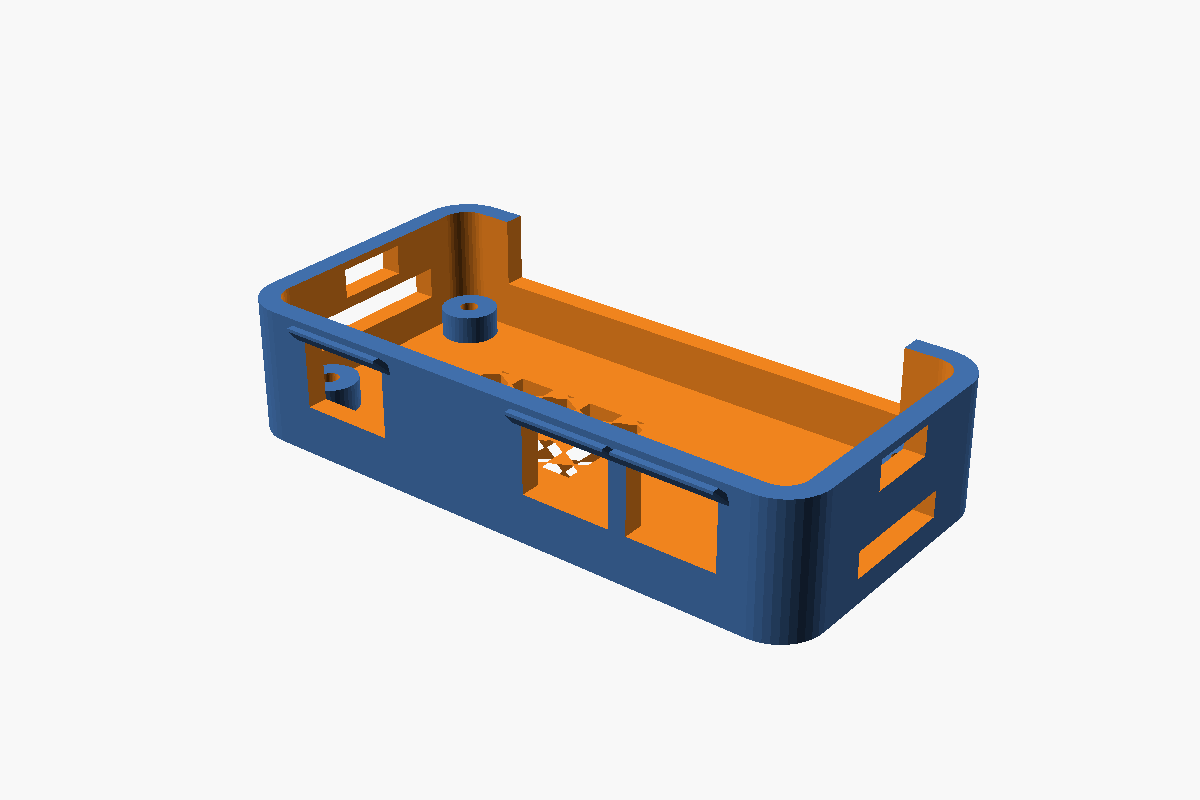
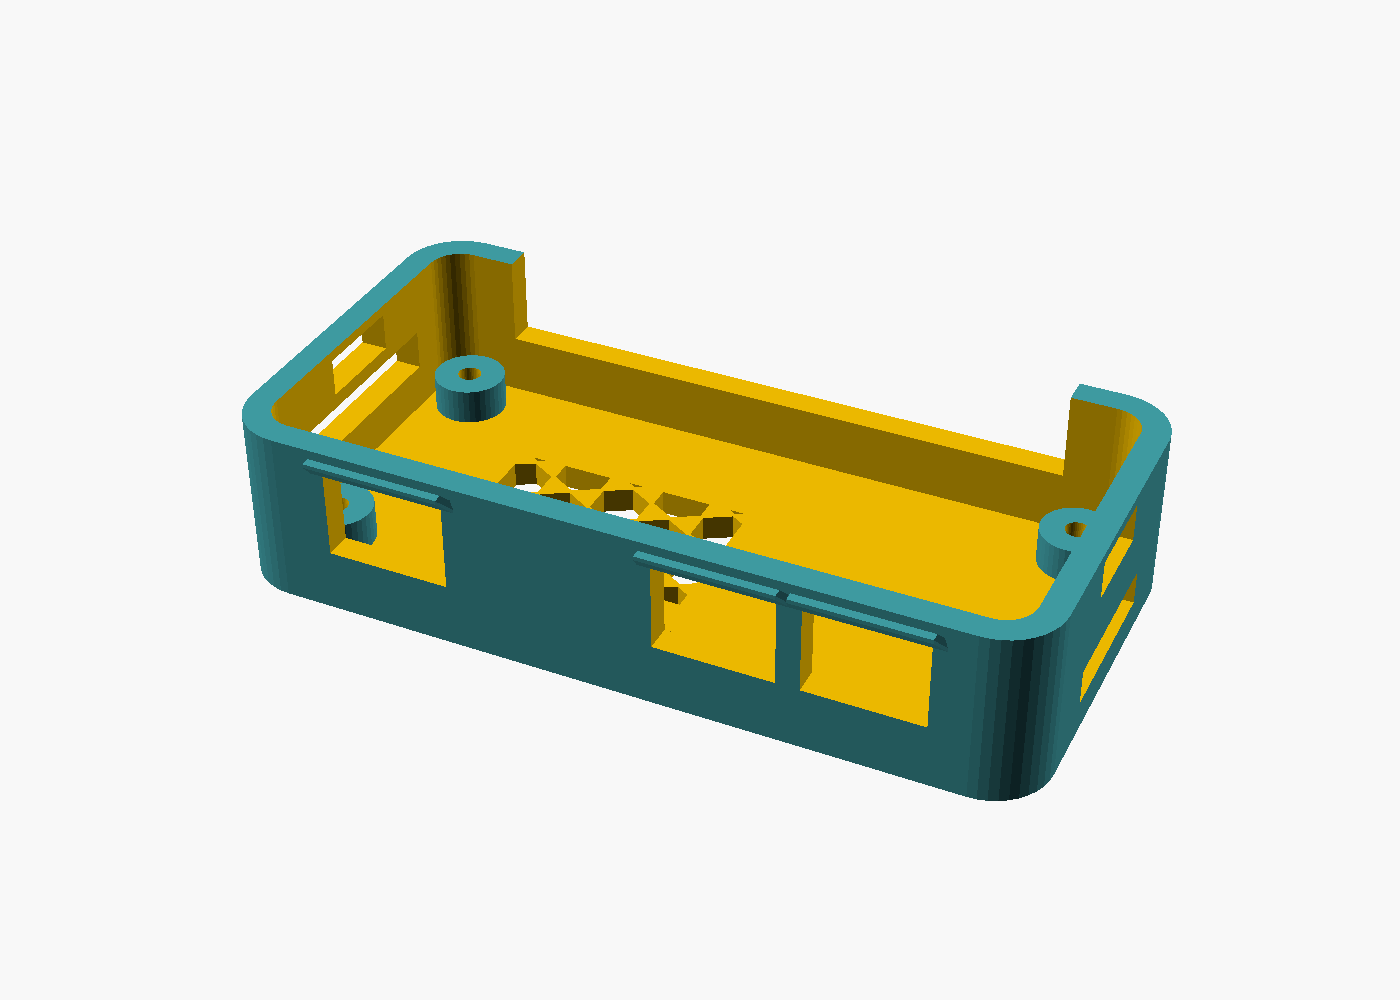
checkpoint before checking out feature/voice-tts-and-model-catalog

Changed region(s): [[0.1542, 0.2188, 0.8325, 0.8125]]

diff --git a/PRINTS/START-HERE.md b/PRINTS/START-HERE.md
@@ -13,6 +13,18 @@ Then open `PRINTS/START-HERE.md`.
 
 **Hive** is two parts: base + lid. The board sits on four bosses and is held with **M2.5 screws**. The lid snaps on at the short ends.
 
+## Filament on the shelf
+
+| | |
+|---|---|
+| Printer | Ender-3 V3 SE — **one extruder, one nozzle** |
+| On hand | **2× black PLA**, **2× white PLA** |
+| Two colors? | Not in one job. Print the **base in black** and the **lid in white** as two slices, then snap them together. |
+| One-plate STL | `zero3w_hive-print.stl` is **one color only** (all black or all white). Do not use it if you want two-tone. |
+| Pause-and-swap | Possible (M600 at a layer) but messy. Not worth it for Hive. |
+
+The old blue/orange previews were OpenSCAD’s cutaway colors, not a second filament. Renders below are the actual PLA.
+
 ## Tomorrow, in this order
 
 1. **Fit coupon first** (~15 min, little filament)  
@@ -34,7 +46,7 @@ Hardware: **4 × M2.5**, 6–8 mm, pan or button head. The pilots are 2.1 mm so 
 
 | | Coupon | Hive base / lid |
 |---|---|---|
-| Material | PLA is fine | PETG preferred (snaps + heat) |
+| Material | White PLA (on the shelf) | Black PLA base, white PLA lid (two jobs). PETG later if the board runs hot. |
 | Layer | 0.20 mm | 0.20 mm |
 | Walls | 3 | 3 |
 | Infill | 15% | 20% gyroid |
@@ -57,6 +69,8 @@ openscad -D 'part="lid"' -o stl/zero3w_hive-lid.stl zero3w_hive.scad
 ```
 
 ## Previews
+
+Black PLA base, white PLA lid, white PLA coupon. Green is the dummy PCB, not filament.
 
 ![Hive assembled](preview/hive-assembled.png)
 

diff --git a/cad/radxa-zero-3w-case/README.md b/cad/radxa-zero-3w-case/README.md
@@ -6,7 +6,7 @@ This is not a Raspberry Pi Zero case with the ports renamed. Connector positions
 
 ## Preview
 
-Assembled (dummy board in green). Three openings on the port edge: micro HDMI, USB 3.0 Host, USB 2.0 OTG (power). GPIO slot along the back. microSD on the short wall.
+Assembled (dummy board in green — that is the PCB, not filament). Printed parts: **black PLA base**, **white PLA lid**. Three openings on the port edge: micro HDMI, USB 3.0 Host, USB 2.0 OTG (power). GPIO slot along the back. microSD on the short wall.
 
 ![Assembled case](preview/assembled.png)
 
@@ -78,7 +78,7 @@ Power is the **OTG** USB-C, not the USB 3.0 port.
 
 | Setting | Value |
 |---|---|
-| Material | PETG preferred (Pi-class boards get warm). PLA is fine for a first fit check. |
+| Material | Black PLA base + white PLA lid as two jobs (what is on the shelf). PETG later if the board runs hot. |
 | Layer height | 0.20 mm |
 | Walls | 3 perimeters (2.0 mm design thickness) |
 | Infill | 20–30% gyroid |

diff --git a/AGENTS.md b/AGENTS.md
@@ -11,6 +11,8 @@ Do **not** mix **Atom Chat** (`/home/mike/atom-chat`) or **Atom-Code** into this
 
 Hive / ZERO 3W case files live in `PRINTS/` (print tomorrow) and `cad/radxa-zero-3w-case/` (measured tray). Start at `PRINTS/START-HERE.md`.
 
+**Filament on the shelf:** 2× black PLA, 2× white PLA. The SE is single-extruder — one color per job. Renders must use those colors (black base / white lid), not OpenSCAD’s blue/orange preview scheme.
+
 ## Fusion CAD (Cursor MCP)
 
 Fusion does **not** run on HAL2026 (Linux). Live modeling uses the **KAMRUI Pinova P2** (Windows 11, Ryzen 3 7330U, 16 GB) plus an SSH tunnel to Fusion MCP port **27182**.

diff --git a/docs/printer-hardware.md b/docs/printer-hardware.md
@@ -25,3 +25,11 @@
 
 - Direct-drive extruder, auto-level (CR Touch style), 220×220×250 mm build volume.
 - Full spec sheet belongs here once verified from the manual — do not guess values.
+
+## Color / extruder
+
+Stock Ender-3 V3 SE is **one hotend, one extruder**. It cannot print two colors in one job unless you pause and swap filament (M600). There is no AMS / MMU / dual nozzle on this machine.
+
+**On the shelf (2026-08-12):** 2 spools black PLA, 2 spools white PLA.
+
+Two-tone parts = two print jobs (e.g. Hive base black, lid white), then assemble. A combined one-plate STL is a single color.
